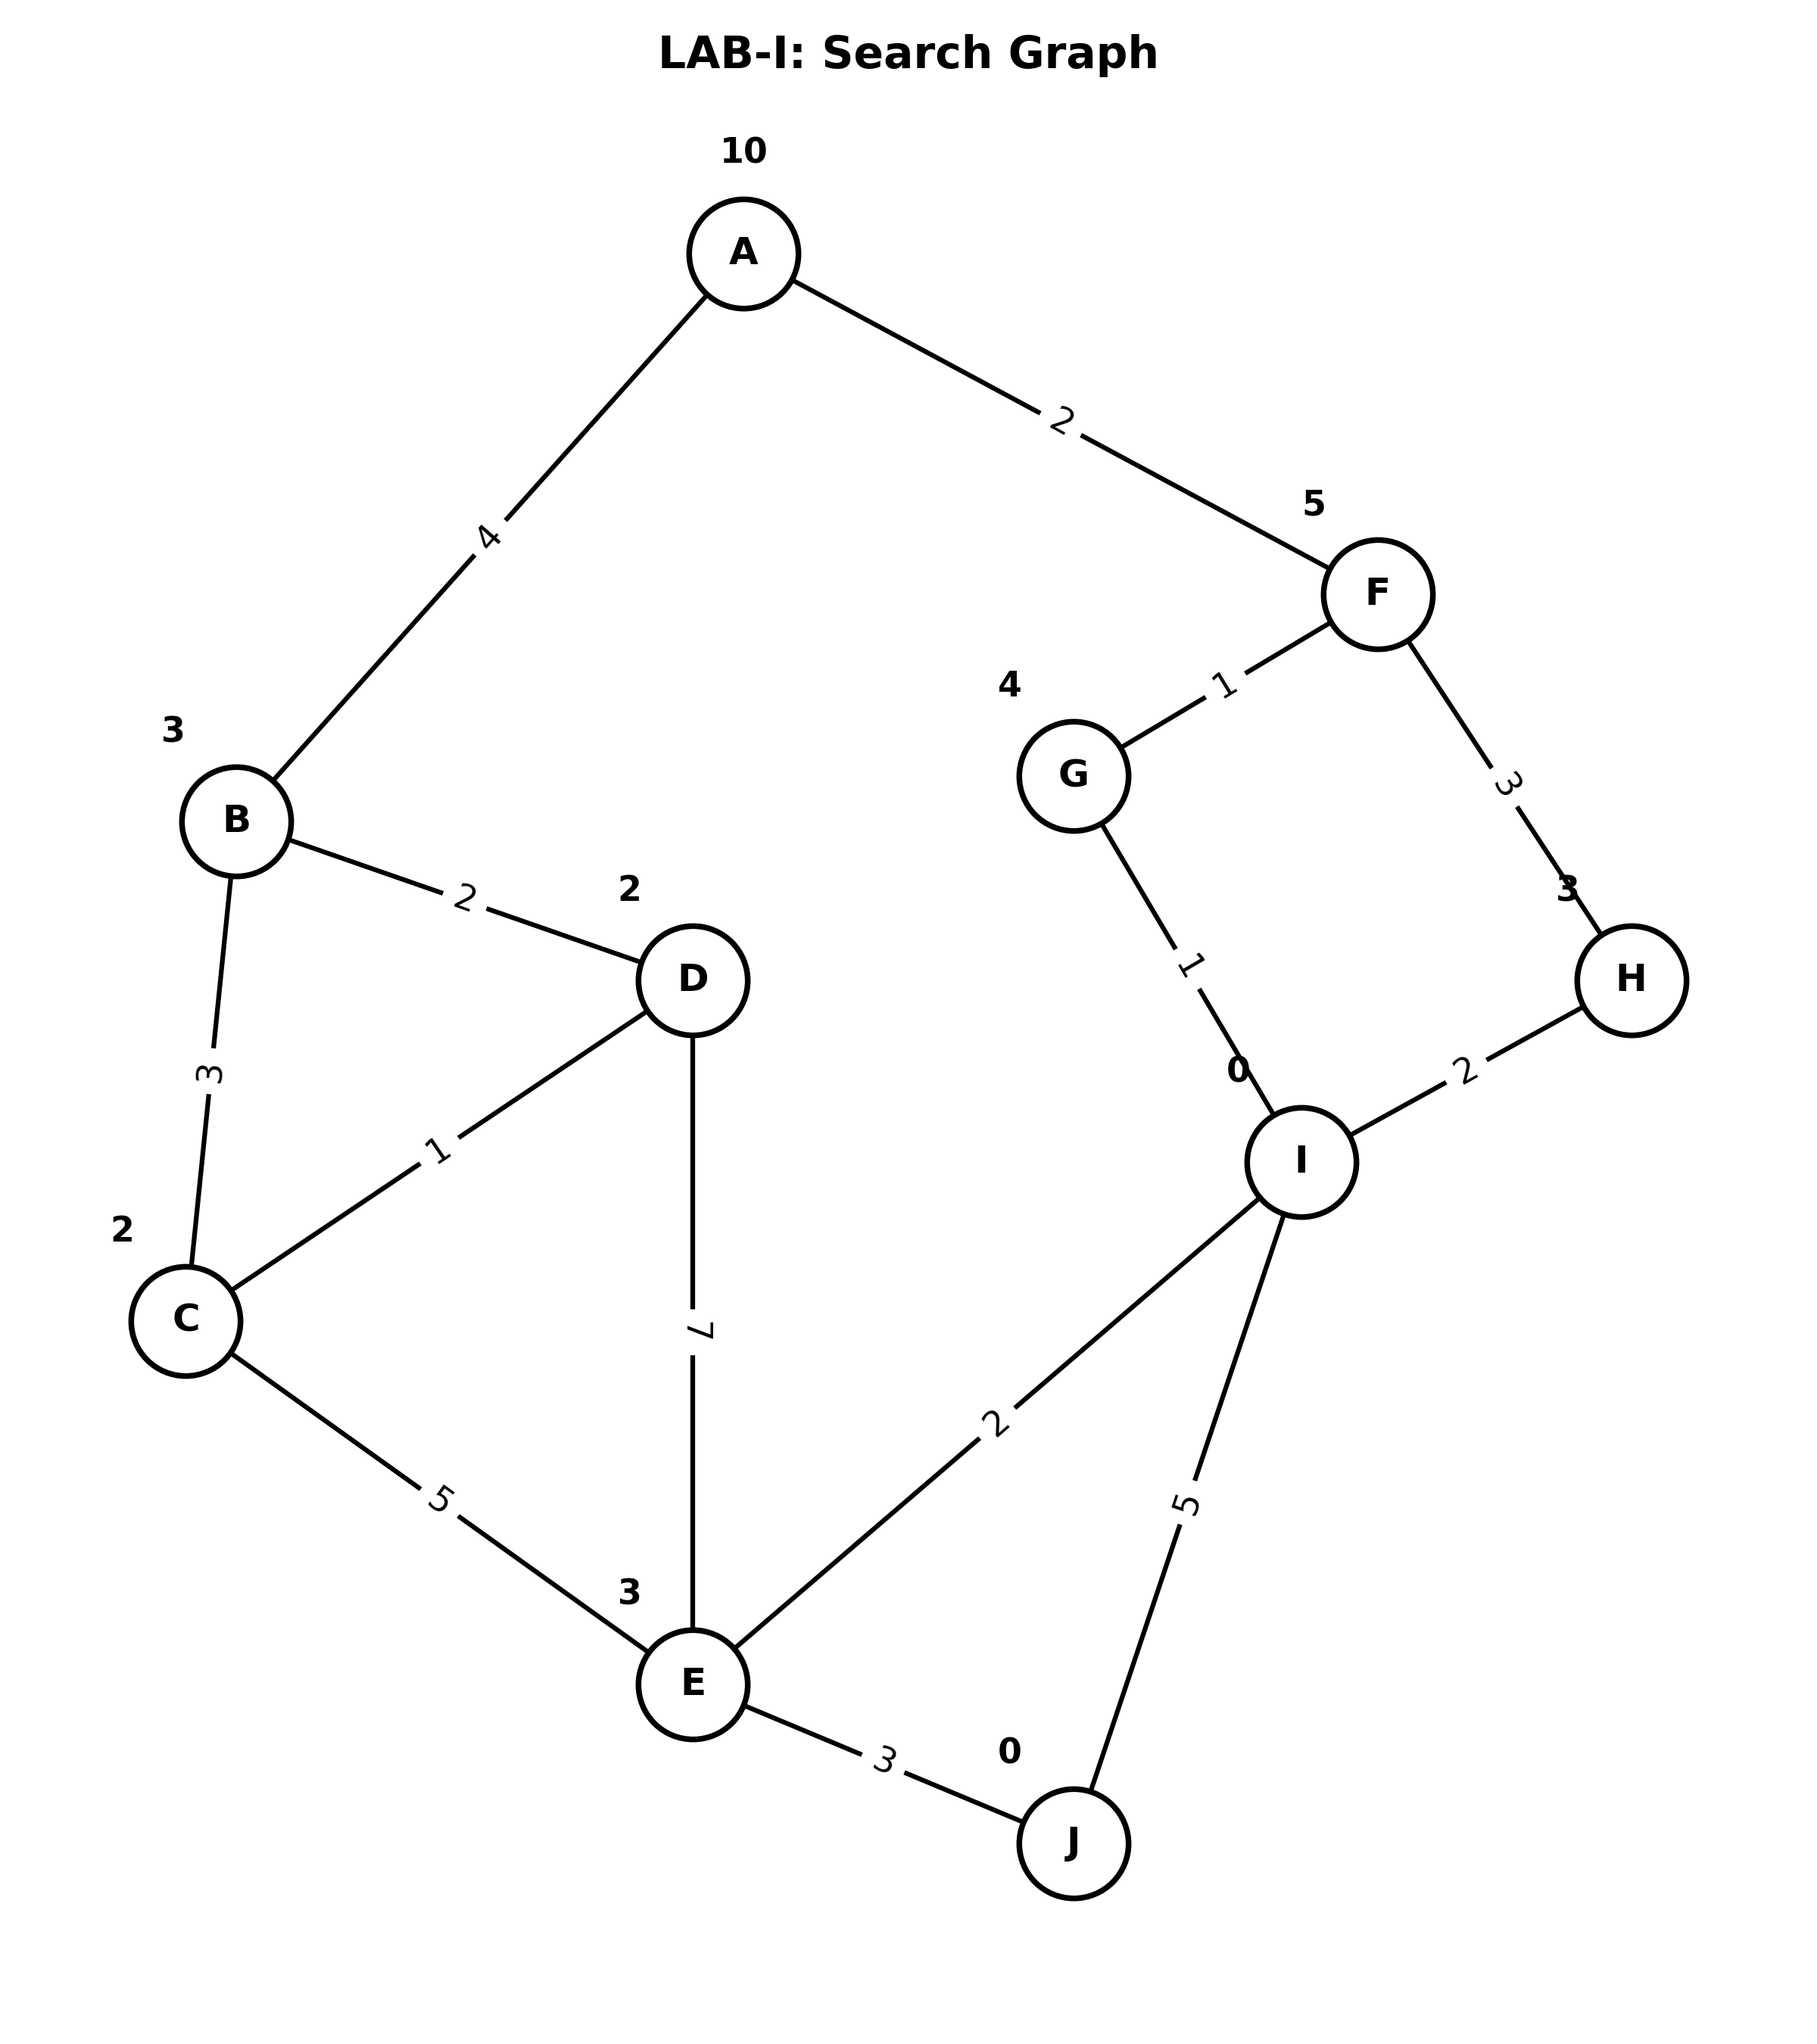
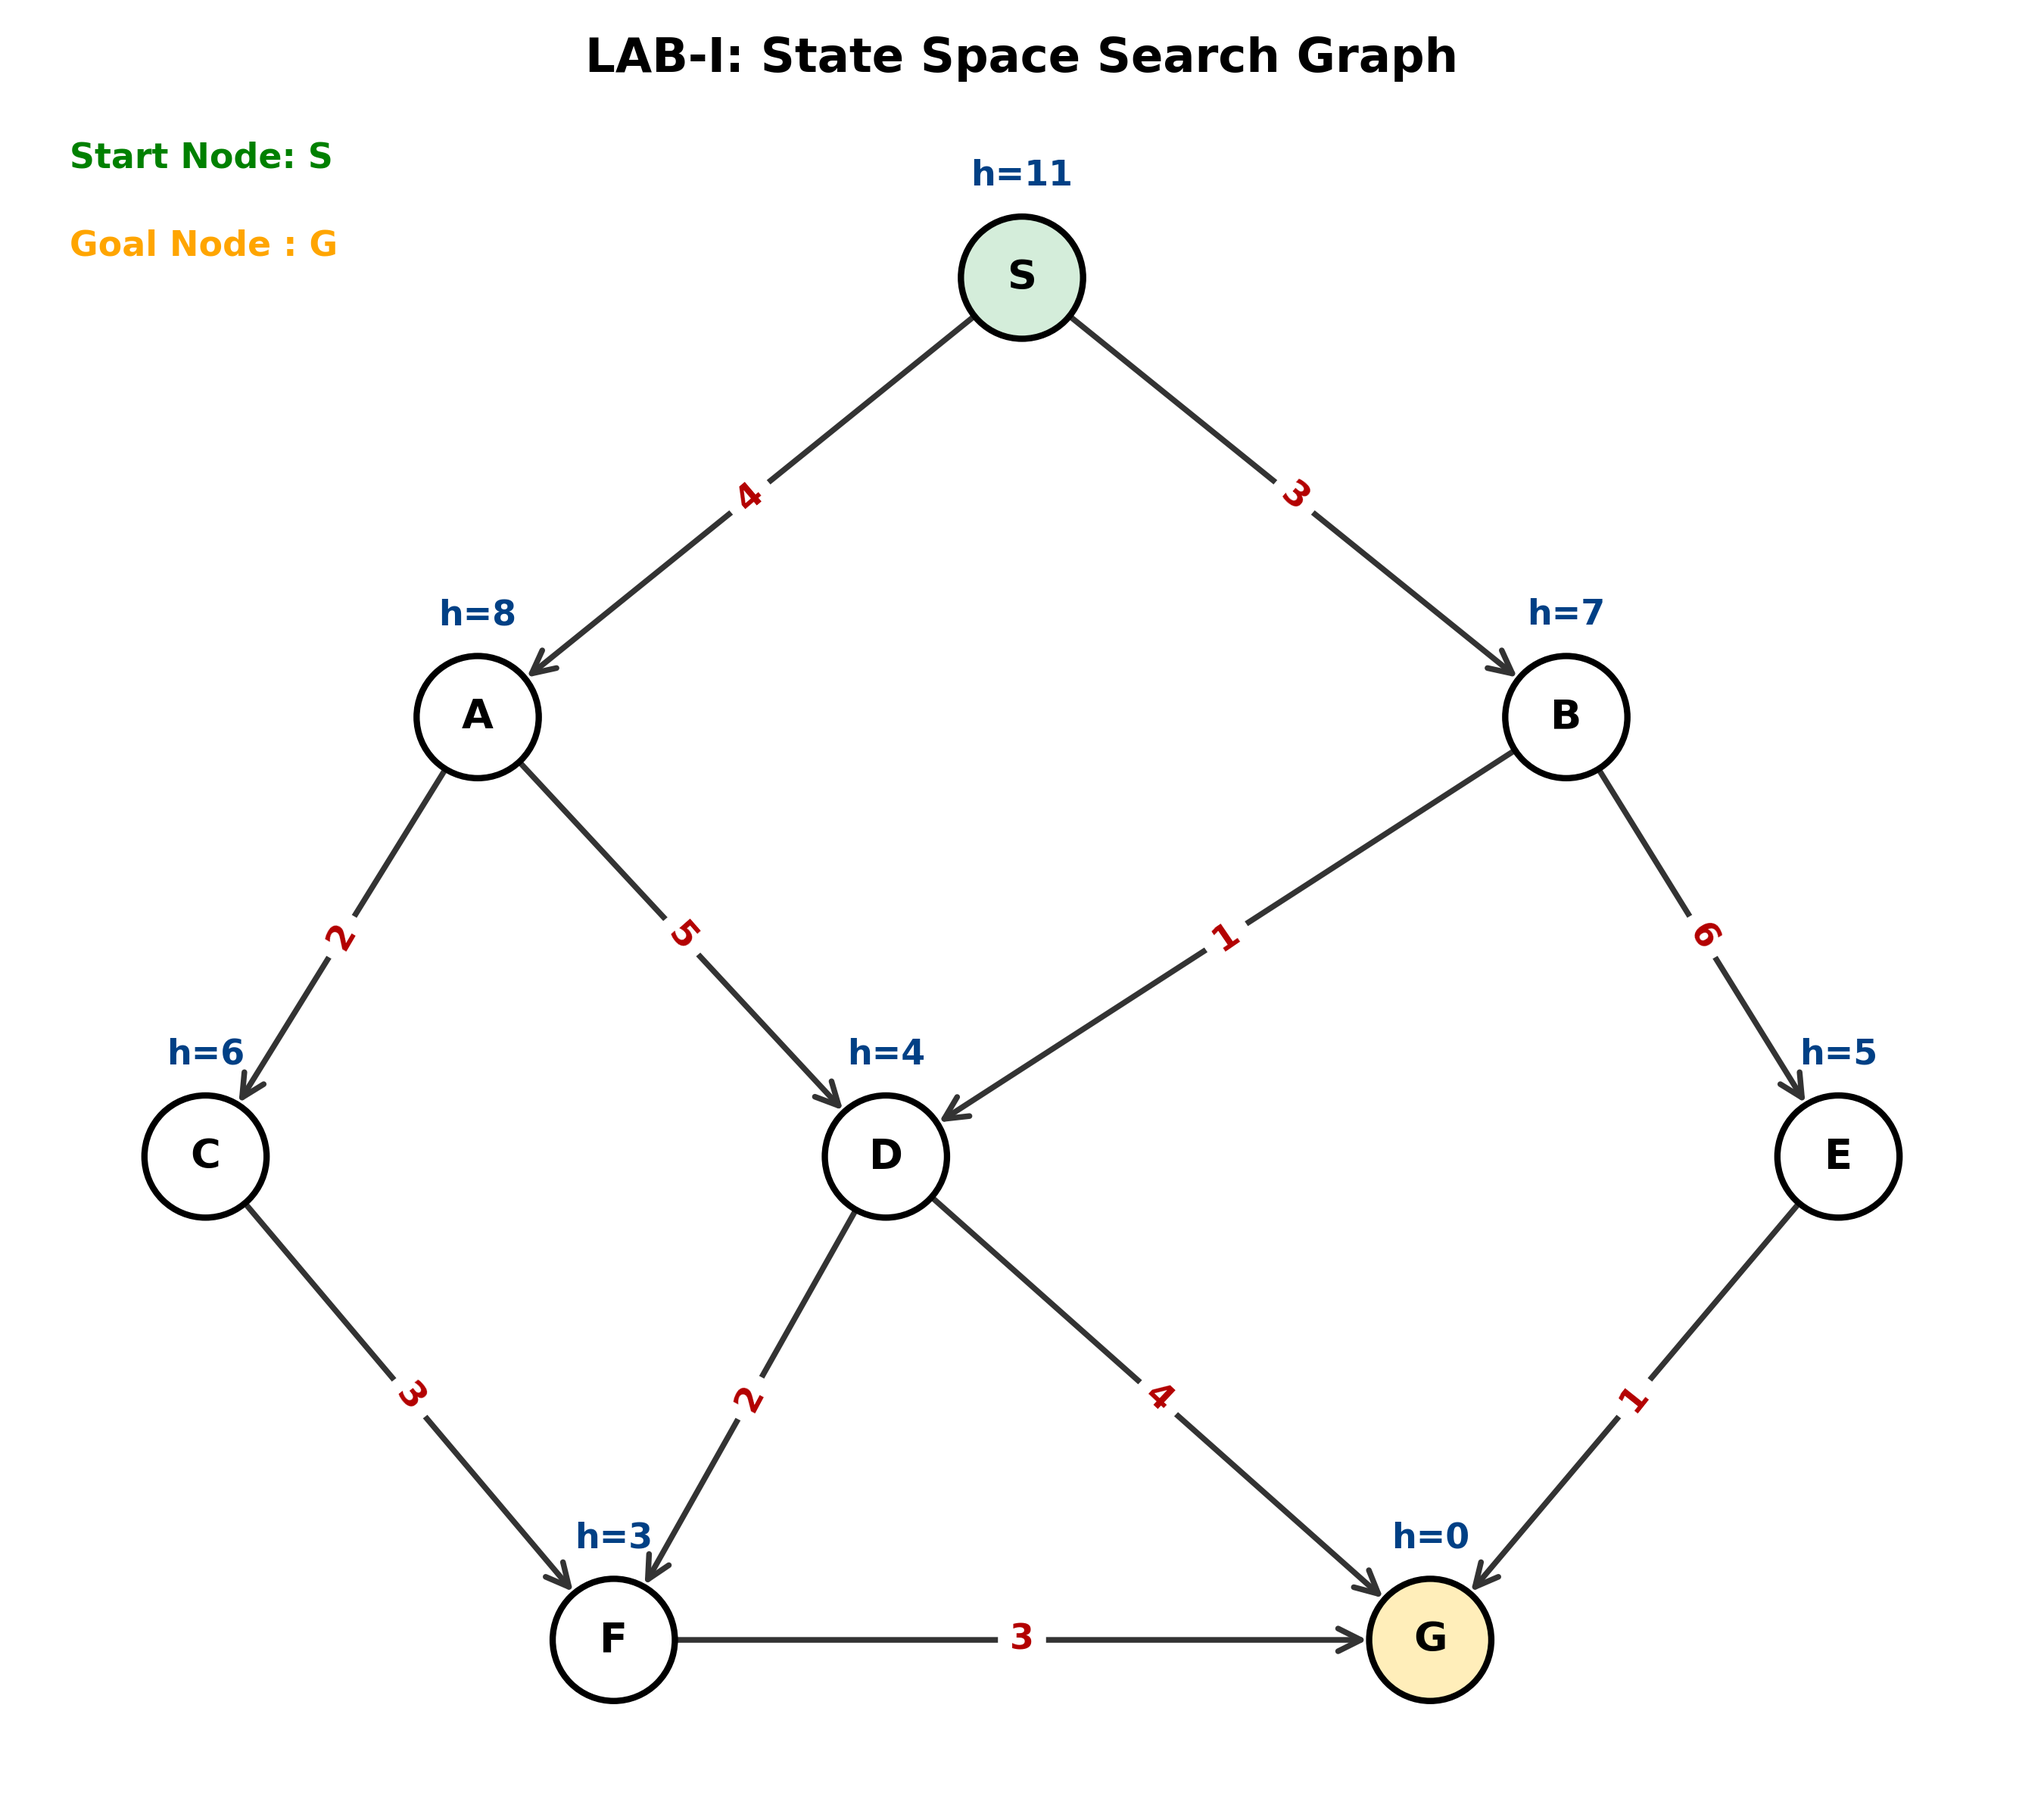
updated graph details and subsequently updated the BFS and DFS algorithms and also added the UCS algorithm

diff --git a/Lab 1(Python)/draw_graph.py b/Lab 1(Python)/draw_graph.py
@@ -1,74 +1,83 @@
 import matplotlib.pyplot as plt
 import networkx as nx
+from common_data import graph, heuristics, start_node, goal_node
 
-# 1. Initialize an undirected graph
-G = nx.Graph()
+# 1. Initialize directed graph
+G = nx.DiGraph()
 
-# 2. Add edges with weights
-edges = [
-    ('A', 'B', 4), ('A', 'F', 2),
-    ('B', 'C', 3), ('B', 'D', 2),
-    ('C', 'D', 1), ('C', 'E', 5),
-    ('D', 'E', 7),
-    ('F', 'G', 1), ('F', 'H', 3),
-    ('G', 'I', 1),
-    ('H', 'I', 2),
-    ('E', 'I', 2), ('E', 'J', 3),
-    ('I', 'J', 5)
-]
+for u, neighbors in graph.items():
+    for v, w in neighbors:
+        G.add_edge(u, v, weight=w)
 
-for u, v, w in edges:
-    G.add_edge(u, v, weight=w)
-
-# 3. Node Heuristics h(n)
-heuristics = {
-    'A': 10, 'B': 3, 'C': 2, 'D': 2, 'E': 3,
-    'F': 5,  'G': 4, 'H': 3, 'I': 0, 'J': 0
-}
-
-# 4. Manual coordinates matching the diagram layout
+# 2. Geometric coordinates matching the diagram layout
 pos = {
-    'A': (5, 9),
-    'B': (3, 6.5),
-    'F': (7.5, 7.5),
-    'D': (4.8, 5.8),
-    'G': (6.3, 6.7),
-    'H': (8.5, 5.8),
-    'C': (2.8, 4.3),
-    'I': (7.2, 5.0),
-    'E': (4.8, 2.7),
-    'J': (6.3, 2.0)
+    'S': (4.0, 8.0),
+    'A': (2.0, 6.0),
+    'B': (6.0, 6.0),
+    'C': (1.0, 4.0),
+    'D': (3.5, 4.0),
+    'E': (7.0, 4.0),
+    'F': (2.5, 1.8),
+    'G': (5.5, 1.8)
 }
 
-# 5. Plot setup
-plt.figure(figsize=(8, 9))
-plt.title("LAB-I: Search Graph", fontsize=14, fontweight="bold")
+# 3. Canvas setup
+plt.figure(figsize=(9, 8))
+plt.title("LAB-I: State Space Search Graph", fontsize=15, fontweight="bold", pad=20)
 
-# Draw Nodes
-nx.draw_networkx_nodes(G, pos, node_size=1200, node_color='white', edgecolors='black', linewidths=1.8)
+# Draw edges with directional arrows
+nx.draw_networkx_edges(
+    G, pos,
+    arrowstyle="->",
+    arrowsize=18,
+    edge_color="#333333",
+    width=1.8,
+    node_size=1600
+)
 
-# Draw Node Names (inside circles)
-nx.draw_networkx_labels(G, pos, font_size=12, font_family='sans-serif', font_weight='bold')
+# Highlight Start (green) and Goal (orange)
+node_colors = []
+for node in G.nodes():
+    if node == start_node:
+        node_colors.append("#d4edda")  # Soft green
+    elif node == goal_node:
+        node_colors.append("#ffeeba")  # Soft amber
+    else:
+        node_colors.append("#ffffff")  # White
 
-# Draw Edges
-nx.draw_networkx_edges(G, pos, width=1.5, edge_color='black')
+# Draw node circles
+nx.draw_networkx_nodes(
+    G, pos,
+    node_size=1500,
+    node_color=node_colors,
+    edgecolors="black",
+    linewidths=2.0
+)
 
-# Draw Edge Costs (weights)
+# Draw node letter labels inside circles
+nx.draw_networkx_labels(G, pos, font_size=13, font_weight="bold")
+
+# Draw edge weights (step costs)
 edge_labels = nx.get_edge_attributes(G, 'weight')
-nx.draw_networkx_edge_labels(G, pos, edge_labels=edge_labels, font_size=11, font_color='black')
+nx.draw_networkx_edge_labels(
+    G, pos,
+    edge_labels=edge_labels,
+    font_size=11,
+    font_color="#b30000",
+    font_weight="bold"
+)
 
-# Draw Heuristic values next to each node (offset slightly to the top-left)
-offset_pos = {
-    k: (v[0] - 0.25, v[1] + 0.35) for k, v in pos.items()
-}
-# Adjust 'A' to be directly above
-offset_pos['A'] = (pos['A'][0], pos['A'][1] + 0.4)
+# Render heuristic values h(n) right above each node
+for node, (x, y) in pos.items():
+    h_text = f"h={heuristics[node]}"
+    plt.text(x, y + 0.42, h_text, fontsize=11, fontweight="bold", color="#004085", ha="center")
 
-for node, (x, y) in offset_pos.items():
-    plt.text(x, y, str(heuristics[node]), fontsize=11, fontweight='bold', color='black', ha='center')
+# Visual legends
+plt.text(0.5, 8.5, f"Start Node: {start_node}", fontsize=11, color="green", fontweight="bold")
+plt.text(0.5, 8.1, f"Goal Node : {goal_node}", fontsize=11, color="orange", fontweight="bold")
 
-# Adjust layout and save high-resolution image for A4 printing
-plt.axis('off')
+plt.axis("off")
 plt.tight_layout()
 plt.savefig("lab1_graph.png", dpi=300)
+print("Graph saved successfully as 'lab1_graph.png'.")
 plt.show()

diff --git a/Lab 1(Python)/common_data.py b/Lab 1(Python)/common_data.py
@@ -1,5 +1,3 @@
-# common_data.py
-
 # Student metadata dictionary
 STUDENT_INFO = {
     "Name": "Prasanna Pokharel",
@@ -8,32 +6,36 @@ STUDENT_INFO = {
 }
 
 def show_student_info(extra_label=""):
-    print("\n" + "=" * 35)
+    print("\n" + "=" * 36)
     for key, val in STUDENT_INFO.items():
         print(f"{key:<12}: {val}")
     if extra_label:
         print(f"Task        : {extra_label}")
-    print("=" * 35)
+    print("=" * 36)
 
-# Shared graph from image
+# Graph representation: node -> list of (neighbor, weight)
 graph = {
-    'A': [('B', 4), ('F', 2)],
-    'B': [('A', 4), ('C', 3), ('D', 2)],
-    'C': [('B', 3), ('D', 1), ('E', 5)],
-    'D': [('B', 2), ('C', 1), ('E', 7)],
-    'E': [('C', 5), ('D', 7), ('I', 2), ('J', 3)],
-    'F': [('A', 2), ('G', 1), ('H', 3)],
-    'G': [('F', 1), ('I', 1)],
-    'H': [('F', 3), ('I', 2)],
-    'I': [('G', 1), ('H', 2), ('E', 2), ('J', 5)],
-    'J': [('E', 3), ('I', 5)]
+    'S': [('A', 4), ('B', 3)],
+    'A': [('C', 2), ('D', 5)],
+    'B': [('D', 1), ('E', 6)],
+    'C': [('F', 3)],
+    'D': [('F', 2), ('G', 4)],
+    'E': [('G', 1)],
+    'F': [('G', 3)],
+    'G': []
 }
 
-# Shared heuristic values
+# Heuristic values h(n) estimating distance to Goal 'G'
 heuristics = {
-    'A': 10, 'B': 3, 'C': 2, 'D': 2, 'E': 3,
-    'F': 5,  'G': 4, 'H': 3, 'I': 0, 'J': 0
+    'S': 11,
+    'A': 8,
+    'B': 7,
+    'C': 6,
+    'D': 4,
+    'E': 5,
+    'F': 3,
+    'G': 0
 }
 
-start_node = 'A'
-goal_node = 'J'
+start_node = 'S'
+goal_node = 'G'

diff --git a/Lab 1(Python)/UCS.py b/Lab 1(Python)/UCS.py
@@ -1,0 +1,25 @@
+import heapq
+from common_data import graph, start_node, goal_node, show_student_info
+
+def ucs(graph, start, goal):
+    pq = [(0, start, [start])]
+    visited = {}
+    
+    while pq:
+        cost, node, path = heapq.heappop(pq)
+        
+        if node == goal:
+            return cost, path
+            
+        if node in visited and visited[node] <= cost:
+            continue
+        visited[node] = cost
+        
+        for neighbor, weight in graph.get(node, []):
+            if neighbor not in visited:
+                heapq.heappush(pq, (cost + weight, neighbor, path + [neighbor]))
+    return float('inf'), []
+
+cost, path = ucs(graph, start_node, goal_node)
+print(f"UCS Optimal Path: {path} with Total Cost: {cost}")
+show_student_info()
